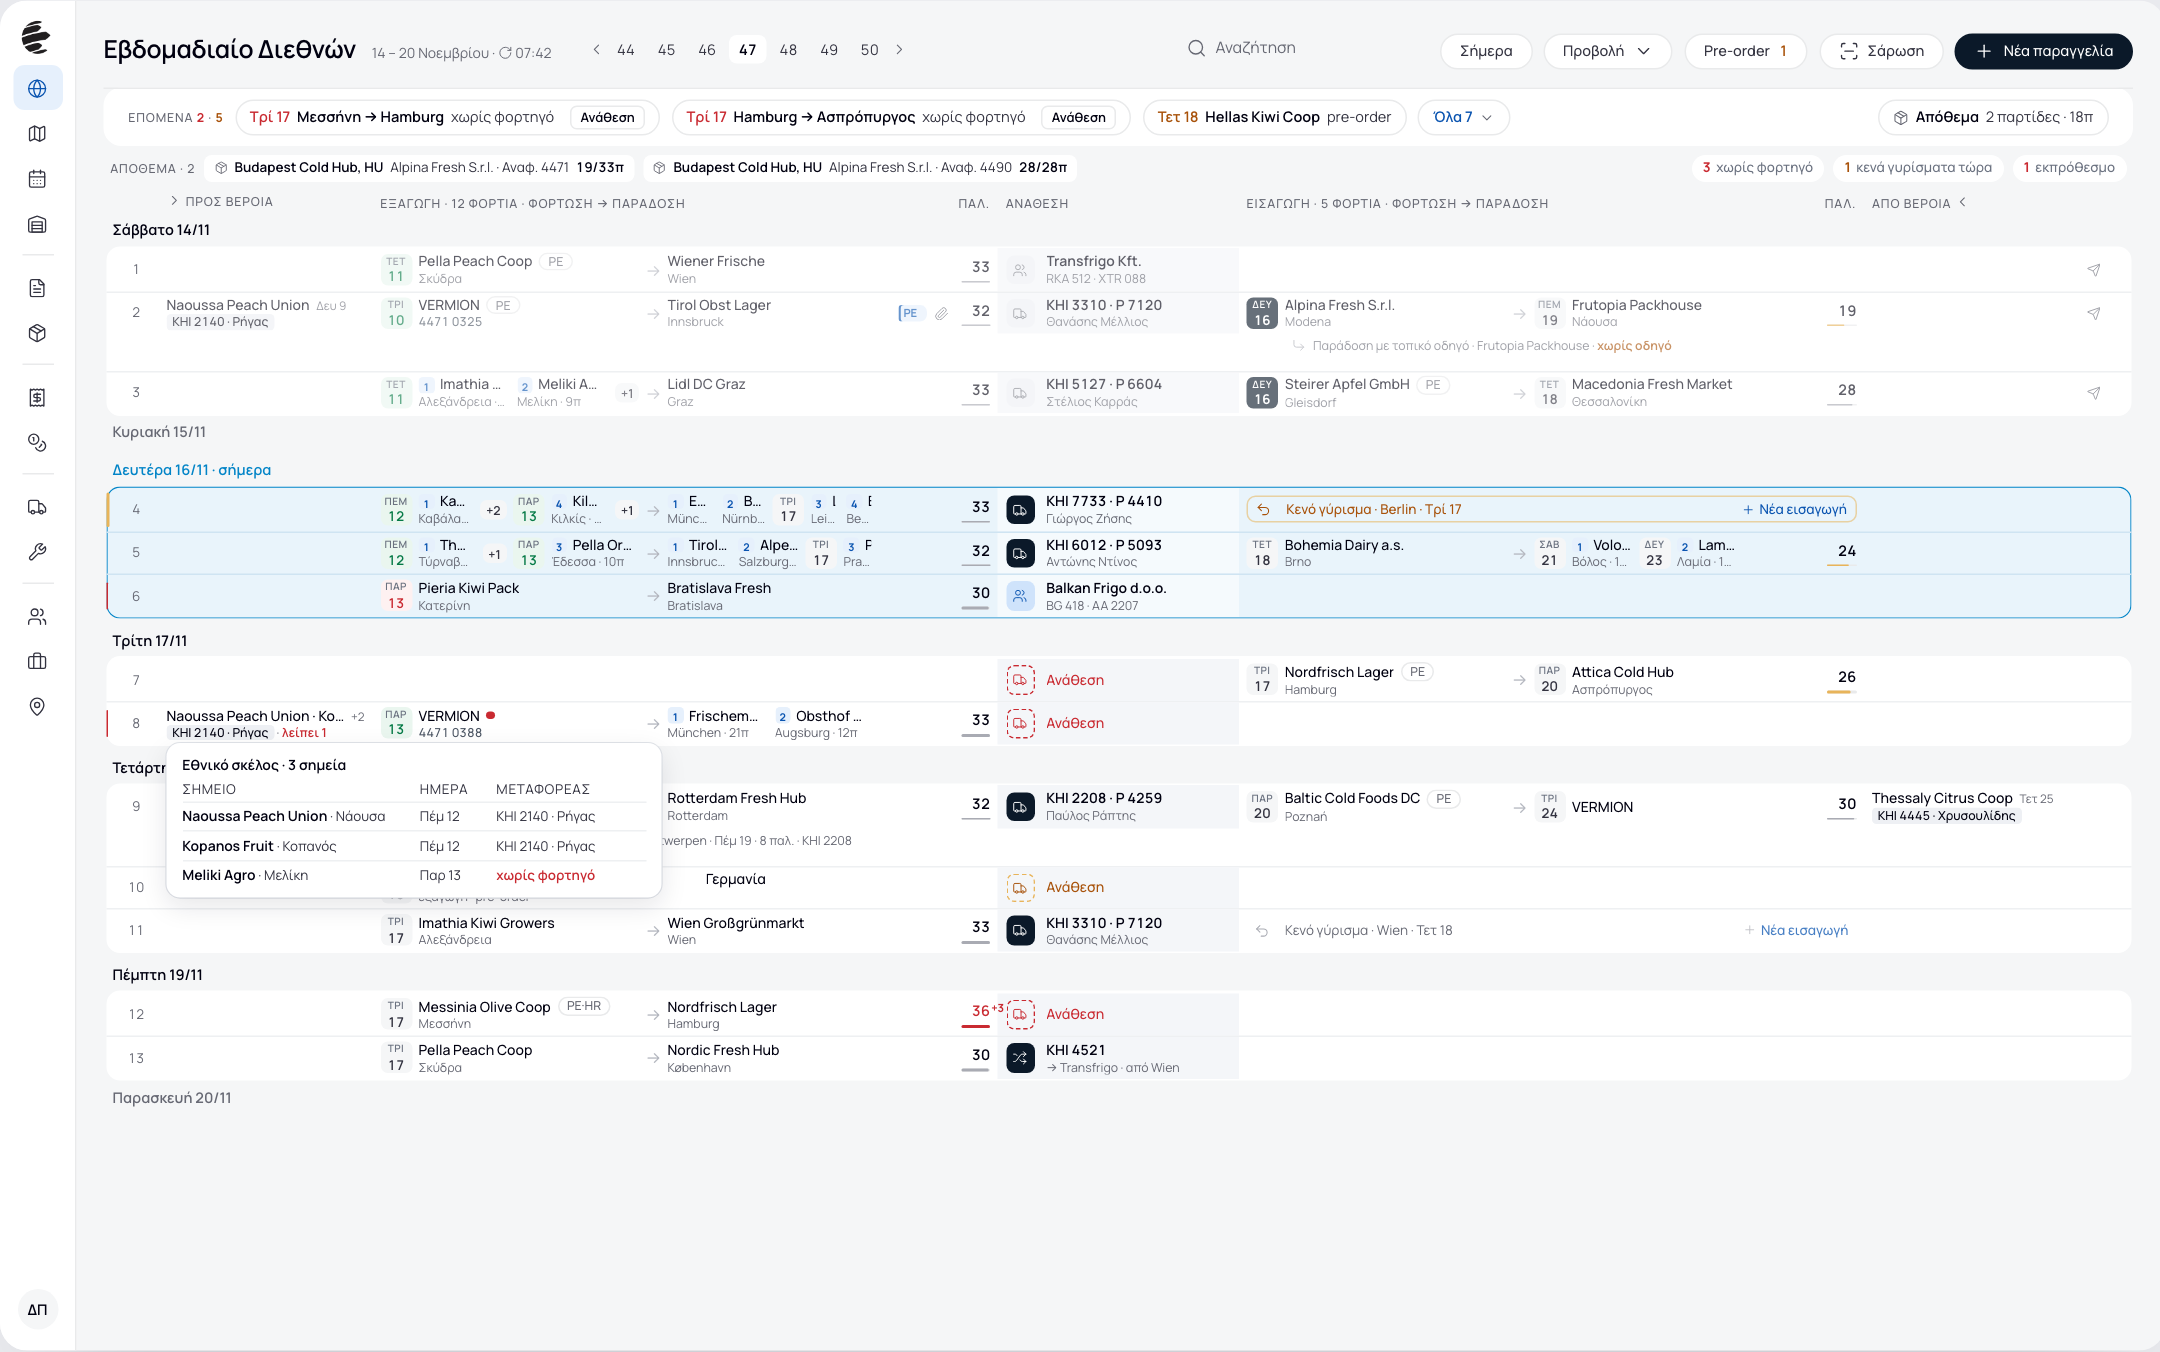
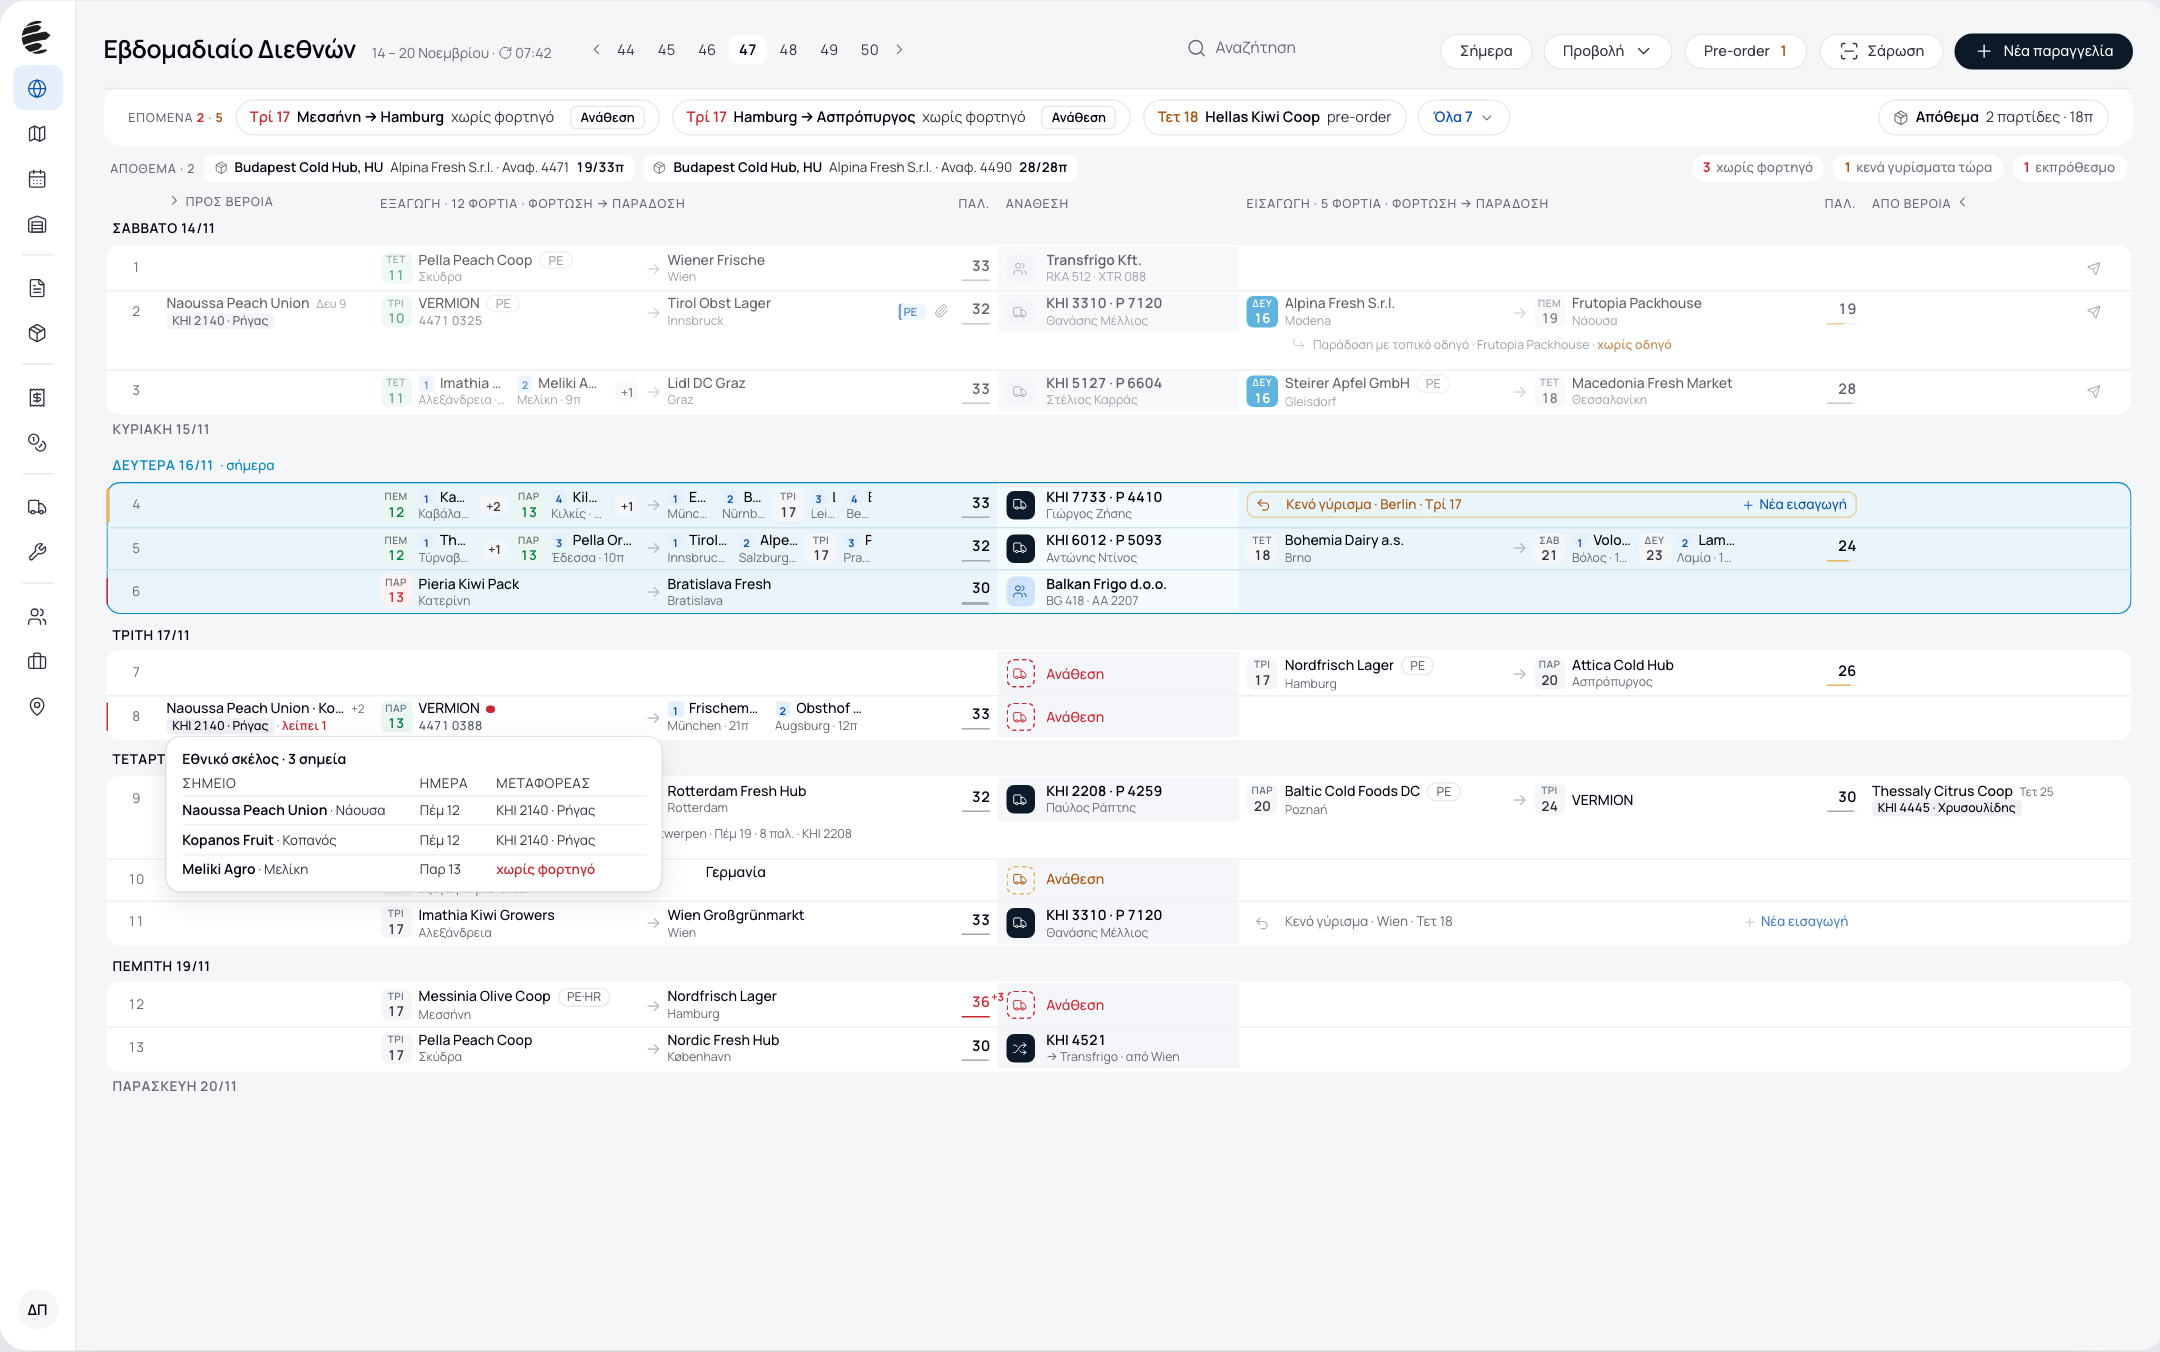
docs(redesign): day names in capitals on the weekly board; today's leaf in the same blue as today's card (owner 15/11)

diff --git a/docs/design/redesign-2026-11/index.html b/docs/design/redesign-2026-11/index.html
@@ -576,6 +576,7 @@ table.spec td b{color:var(--ink);font-weight:600}
 #f5 .day.today{box-shadow:inset 0 0 0 1px var(--primary)}#f5 .day.today>h3{color:var(--primary)}#f5 .lf.t{background:var(--primary)}
 #f5 .dout .day{background:none;box-shadow:none;padding:0;margin-top:10px}#f5 .dout .day>h3{padding:0 6px 5px;font-size:13px}#f5 .dout .w9dc{background:#fff;border-radius:12px;padding:2px 0}#f5 .dout .day.today{box-shadow:none}#f5 .dout .day>h3{font-weight:600}
 /* today as on the live weekly board (owner 15/11): light blue card, blue outline, blue day name */
+#f5 .dout .day>h3{font-size:12px;letter-spacing:.05em}#f5 .dout .day>h3 small{font-size:12px;font-weight:500;letter-spacing:0;margin-left:-8px}#f5 .lf.t{background:#0284C7}
 #f5 .dout .day.today .w9dc{background:#E9F4FB;box-shadow:inset 0 0 0 1px #0284C7}#f5 .dout .day.today>h3{color:#0284C7}#f5.v2 .dout .day.today .w9as{background:rgba(255,255,255,.55)}#f5 .dout .day.today .w9row+.w9row:not(.sub){border-top-color:#CFE4F2}#f5 .dout .day.none .w9dc{display:none}#f5 .dout .day.none{margin-top:6px}
 #f5 .day.past .w9row>*:not(.w9no):not(.n){opacity:.62}#f5 .day.past .w9ic{background:#EEF0F4;color:#7C7E88}
 @media (prefers-reduced-motion:reduce){*,*::before,*::after{animation-duration:.01ms!important;animation-iteration-count:1!important;transition-duration:.01ms!important;transition-delay:0ms!important}
@@ -1201,7 +1202,9 @@ const lfMany=a=>a.length>1?`<div class="lns">${a.map(x=>lfLn(x[1],'',x[0],x[2],x
  const strip=()=>`<span class="lbl">Απόθεμα · ${STOCK.length}</span>${STOCK.map(x=>`<span class="w9lot">${ic('package')}<b>${x[0]}</b>${x[1]} · ${x[2]} <b class="num">${x[3]}</b></span>`).join('')}<span style="flex:1"></span>${CNT.need?`<a class="w9f r"><b>${CNT.need}</b>χωρίς φορτηγό</a>`:''}${CNT.gap?`<a class="w9f a"><b>${CNT.gap}</b>κενά γυρίσματα τώρα</a>`:''}${CNT.late?`<a class="w9f r"><b>${CNT.late}</b>εκπρόθεσμο</a>`:''}`;
  const DATA=window.WK_REAL||WK,ALL=DATA.flatMap(d=>d[2]),CNT={ex:ALL.filter(r=>r.ex).length,im:ALL.filter(r=>r.im).length,need:ALL.filter(r=>r.as[0]==='n').length,gap:ALL.filter(r=>r.gapNow).length,late:0};
  ALL.forEach(r=>{if(r.ex&&(r.vTo||[]).some(x=>x.t===''))r.ex.L[0].nm=1});
- const draw=()=>{let no=0;grid();CNT.late=ALL.filter(late).length;st.innerHTML=strip();box.innerHTML=head()+`<div style="margin-top:-8px">${DATA.map(([t,c,rows])=>`<section class="day ${c}"><h3>${t}</h3><div class="w9dc">${rows.map(r=>row({...r,no:++no,sec:+(t.match(/ (\d+)\//)||[0,0])[1]})).join('')}</div></section>`).join('')}</div>`;if(window.lucide)lucide.createIcons()};
+ /* day names in capitals, without accents, as on the live board; the word 'σήμερα' stays small (owner 15/11) */
+ const dayName=t=>{const [a,b]=t.split(' · ');return a.normalize('NFD').replace(/[\u0300-\u036f]/g,'').toUpperCase()+(b?` <small>· ${b}</small>`:'')};
+ const draw=()=>{let no=0;grid();CNT.late=ALL.filter(late).length;st.innerHTML=strip();box.innerHTML=head()+`<div style="margin-top:-8px">${DATA.map(([t,c,rows])=>`<section class="day ${c}"><h3>${dayName(t)}</h3><div class="w9dc">${rows.map(r=>row({...r,no:++no,sec:+(t.match(/ (\d+)\//)||[0,0])[1]})).join('')}</div></section>`).join('')}</div>`;if(window.lucide)lucide.createIcons()};
  box.addEventListener('click',e=>{if(e.target.closest('.w9vh')){OPEN=!OPEN;draw()}});draw();
  /* title, weeks and search on one line (owner 15/11) */
  {const f=$('f5'),hd=f.querySelector('.hd'),wk=f.querySelector('.wk'),tabs=document.createElement('span');f.classList.add('v2');tabs.className='w9wk';

diff --git a/docs/design/redesign-2026-11/parity/README.md b/docs/design/redesign-2026-11/parity/README.md
@@ -213,3 +213,5 @@
 **Επιλογή owner από τις προτάσεις του ανεξάρτητου κριτή (15/11, νύχτα): τρεις κρατήθηκαν, ο διακόπτης αφαιρέθηκε.** (1) **Μία ράγα αριστερά** σε κάθε γραμμή που θέλει ενέργεια: κόκκινη για εκπρόθεσμη φόρτωση ή εθνικό σκέλος χωρίς φορτηγό (με κόκκινη κουκκίδα δίπλα στο «VERMION», στη θέση του «!»), κεχριμπαρί για κενό γύρισμα που θέλει ενέργεια τώρα. (2) **Περισσότερος χώρος στις παραδόσεις:** η φόρτωση έχει σταθερό πλάτος 230px και οι παραδόσεις παίρνουν το υπόλοιπο, έως τέσσερις στάσεις. (3) **Μπάρα παλετών με νόημα:** κεχριμπαρί κάτω από 80% γεμάτο, κόκκινη πάνω από 33. Δεν κρατήθηκαν: πρόοδος παράδοσης, σύνολα ανά ημέρα, «σε Ν ημέρες» στο κενό γύρισμα.
 
 **Αποφάσεις owner (15/11, νύχτα).** Το **όνομα της ημέρας βγαίνει έξω από το λευκό πλαίσιο**, πάνω στο γκρι φόντο (δική του ιδέα)· το πλαίσιο έχει μόνο φορτία. Το **«σήμερα» γίνεται όπως στο σημερινό Εβδομαδιαίο**: γαλάζιο πλαίσιο (#E9F4FB) με μπλε περίγραμμα και μπλε όνομα ημέρας (#0284C7). Το φύλλο ημέρας του «σήμερα» μέσα στις άλλες ημέρες μένει σκούρο ναυτικό.
+
+**Αποφάσεις owner (15/11, νύχτα).** Τα **ονόματα των ημερών με κεφαλαία**, χωρίς τόνους, όπως στο σημερινό («ΚΥΡΙΑΚΗ 15/11 · σήμερα», το «σήμερα» μένει πεζό). Το **φύλλο ημέρας του «σήμερα»** γίνεται κι αυτό μπλε (#0284C7), ίδιο με το πλαίσιο της ημέρας.
